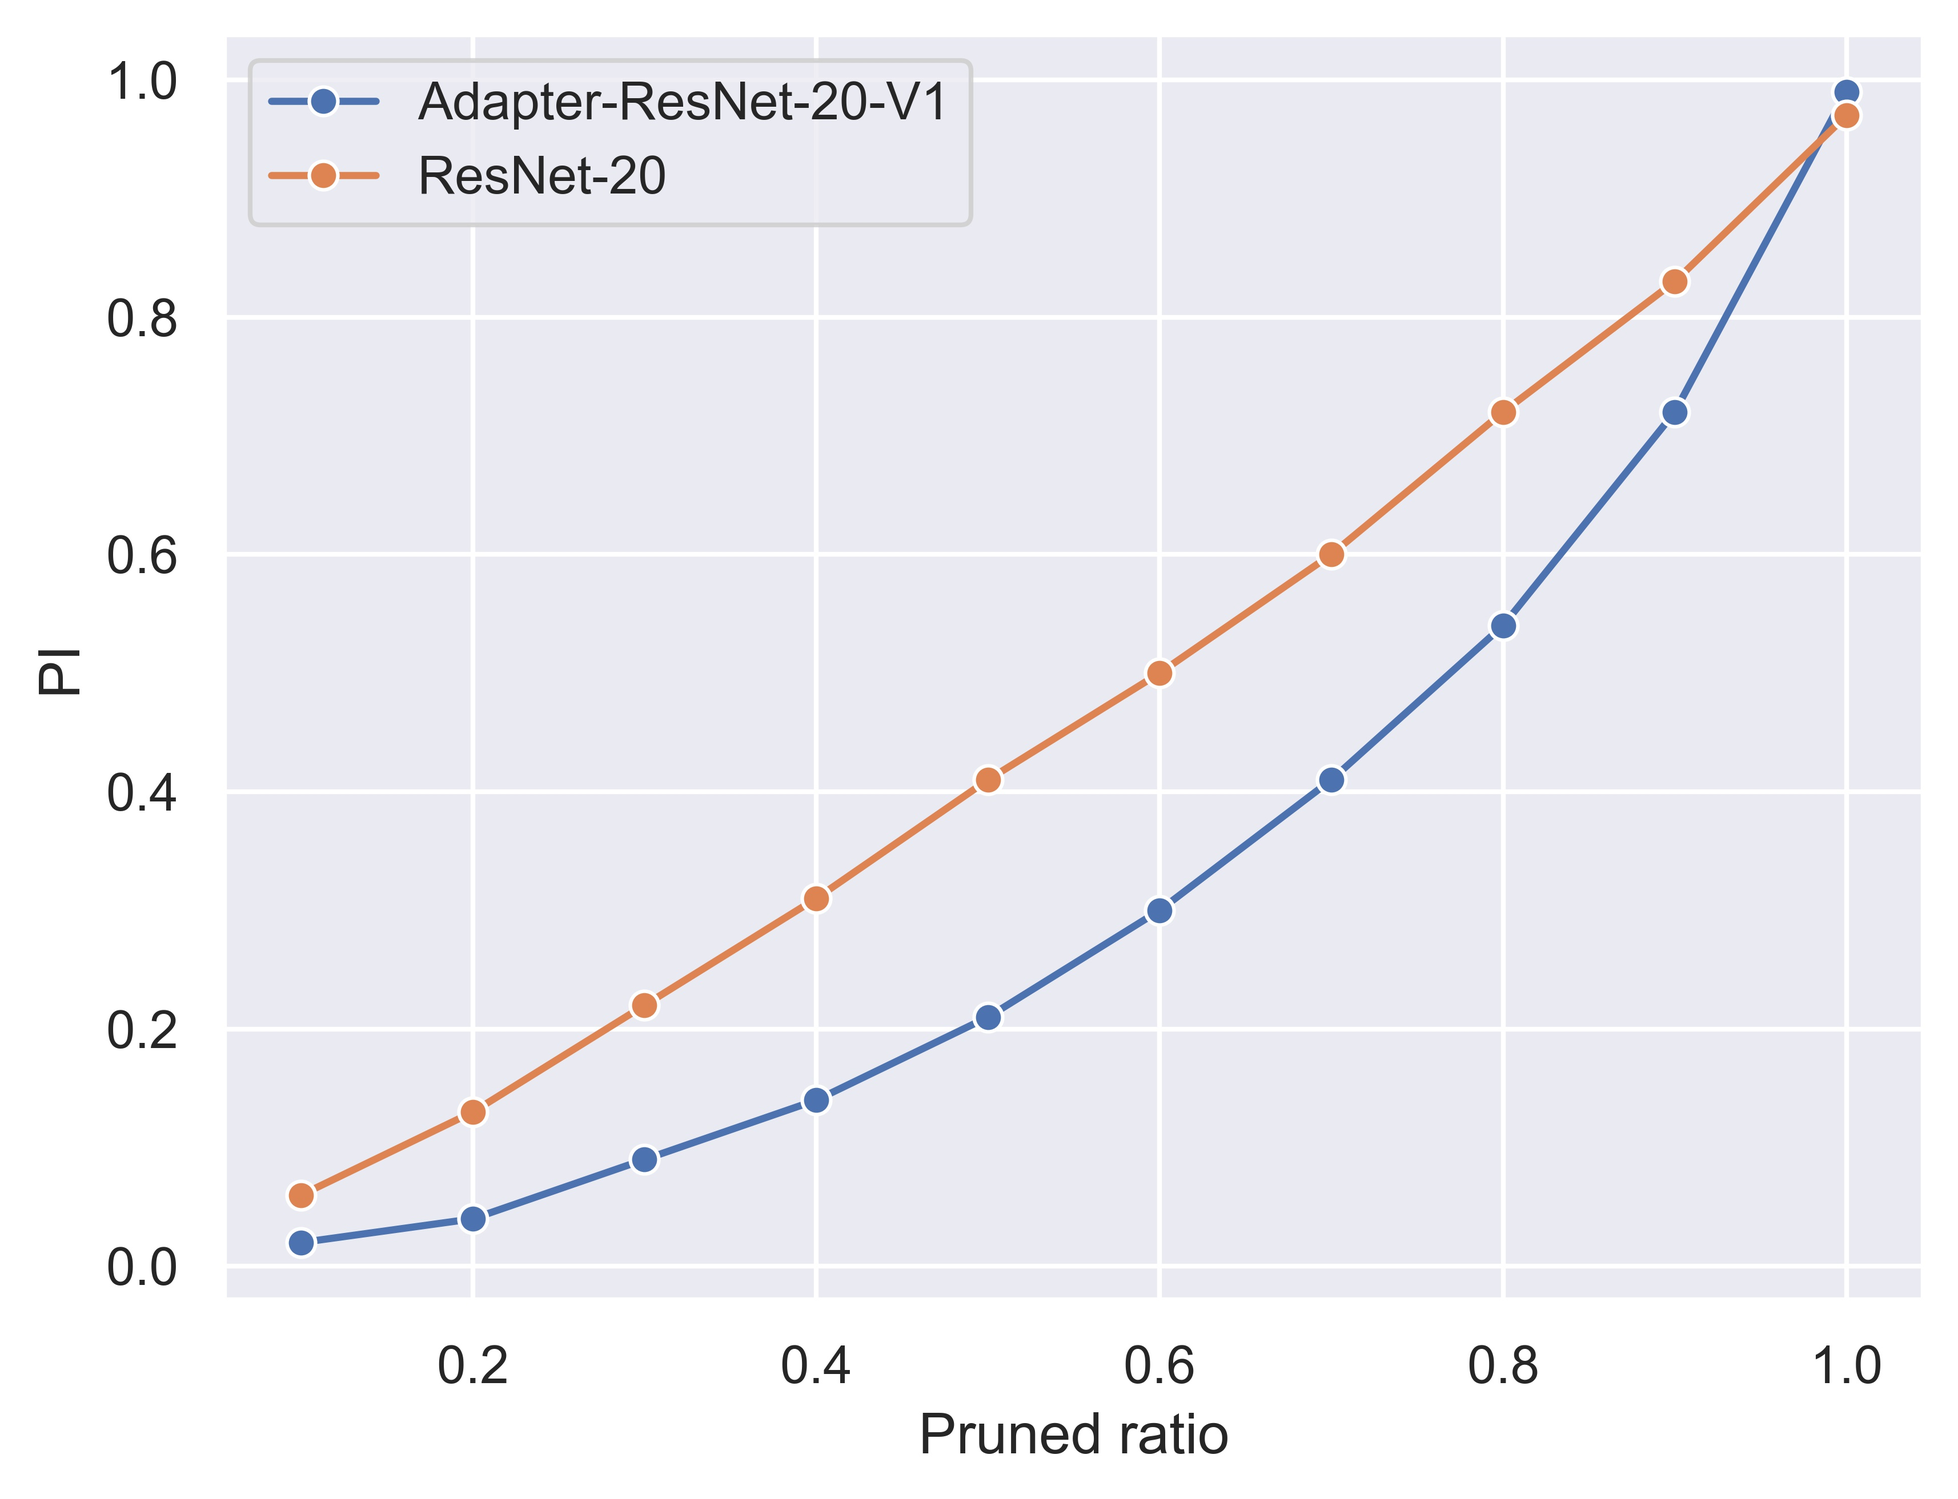
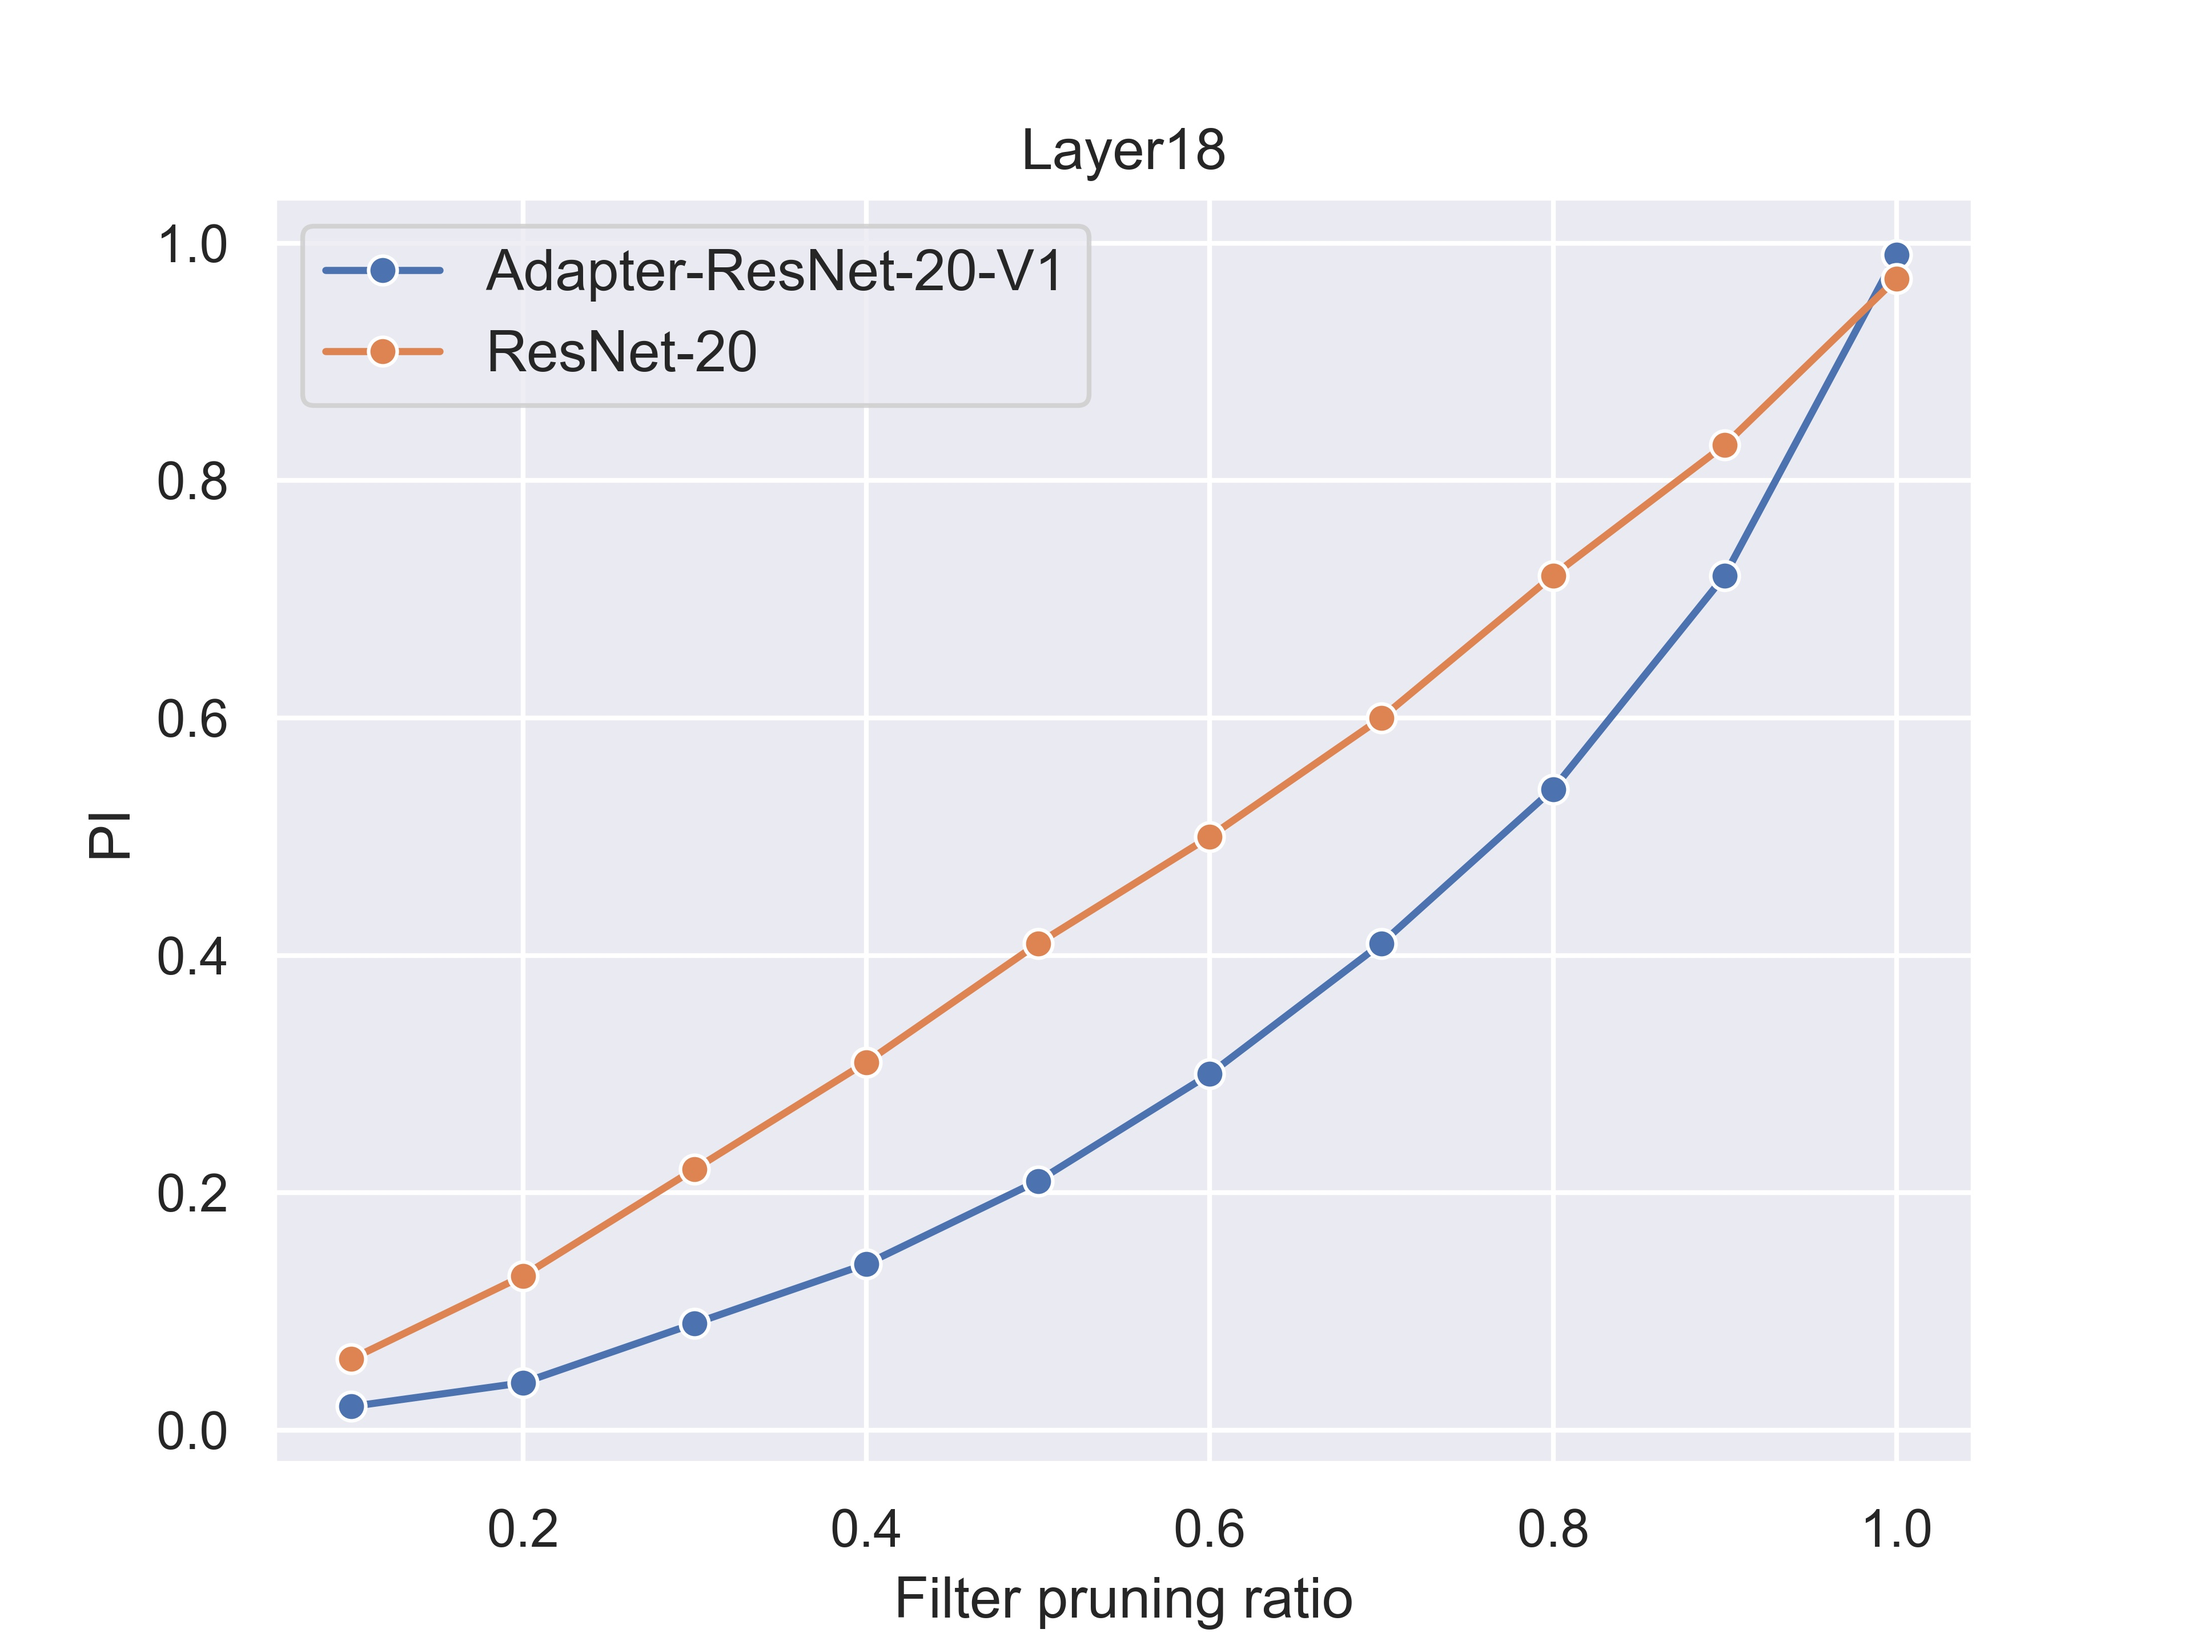
xiugai

diff --git a/influence.py b/influence.py
@@ -11,19 +11,19 @@ if __name__ == '__main__':
         #        '--batch_size 128 --epochs 200 --lr_type cos --learning_rate 0.01 --momentum 0.9 --weight_decay 0.0005 ' \
         #        '--graf --pretrain_dir ./pretrained_models/93.59_resnet_56_cifar10.pth.tar --sparsity [0.]*29+[{}]*1'.format(str(item), str(item))
 
-        rcmd = 'python graf_prune_finetune_cifar_n.py --pretrained_dataset cifar10 --finetune_dataset cifar10 ' \
-               '--finetune_data_dir ./data --pretrained_arch resnet_56 --finetune_arch resnet_56 --result_dir ' \
-               './result/normal_pruned/93.59cifar10tocifar10_resnet_56_pruned_{}_2 --ci_dir ./calculated_ci/93.59_resnet_56_cifar10 ' \
-               '--batch_size 128 --epochs 200 --lr_type cos --learning_rate 0.01 --momentum 0.9 --weight_decay 0.0005 ' \
-               '--graf --pretrain_dir ./pretrained_models/93.59_resnet_56_cifar10.pth.tar --sparsity [0.]*28+[{}]*1+[0.]*1'.format(
-            str(item), str(item))
-
         # rcmd = 'python graf_prune_finetune_cifar_n.py --pretrained_dataset cifar10 --finetune_dataset cifar10 ' \
-        #        '--finetune_data_dir ./data --pretrained_arch resnet_20 --finetune_arch resnet_20 --result_dir ' \
-        #        './result/normal_pruned/92.21cifar10tocifar10_resnet_20_pruned_{} --ci_dir ./calculated_ci/92.21_resnet_20_cifar10 ' \
+        #        '--finetune_data_dir ./data --pretrained_arch resnet_56 --finetune_arch resnet_56 --result_dir ' \
+        #        './result/normal_pruned/93.59cifar10tocifar10_resnet_56_pruned_{}_2 --ci_dir ./calculated_ci/93.59_resnet_56_cifar10 ' \
         #        '--batch_size 128 --epochs 200 --lr_type cos --learning_rate 0.01 --momentum 0.9 --weight_decay 0.0005 ' \
-        #        '--graf --pretrain_dir ./pretrained_models/92.21_resnet_20_cifar10.pth.tar --sparsity [0.]*11+[{}]*1'.format(
+        #        '--graf --pretrain_dir ./pretrained_models/93.59_resnet_56_cifar10.pth.tar --sparsity [0.]*28+[{}]*1+[0.]*1'.format(
         #     str(item), str(item))
+
+        rcmd = 'python graf_prune_finetune_cifar_n.py --pretrained_dataset cifar10 --finetune_dataset cifar10 ' \
+               '--finetune_data_dir ./data --pretrained_arch resnet_20 --finetune_arch resnet_20 --result_dir ' \
+               './result/normal_pruned/92.21cifar10tocifar10_resnet_20_pruned_{} --ci_dir ./calculated_ci/92.21_resnet_20_cifar10 ' \
+               '--batch_size 128 --epochs 100 --lr_type cos --learning_rate 0.01 --momentum 0.9 --weight_decay 0.0005 ' \
+               '--graf --pretrain_dir ./pretrained_models/92.21_resnet_20_cifar10.pth.tar --sparsity [0.]*11+[{}]*1'.format(
+            str(item), str(item))
 
         # rcmd = 'python graf_prune_finetune_cifar_n.py --pretrained_dataset cifar10 --finetune_dataset cifar10 ' \
         #        '--finetune_data_dir ./data --pretrained_arch resnet_20 --finetune_arch resnet_20 --result_dir ' \
@@ -39,19 +39,19 @@ if __name__ == '__main__':
         #        '--graf --pretrain_dir ./pretrained_models/93.73_adapter15resnet_56_cifar10.pth.tar --sparsity [0.]*100 ' \
         #          '--adapter_sparsity [{}]*1'.format(str(item), str(item))
 
-        adrcmd = 'python graf_prune_finetune_cifar_n.py --pretrained_dataset cifar10 --finetune_dataset cifar10 ' \
-               '--finetune_data_dir ./data --pretrained_arch adapter15resnet_56 --finetune_arch adapter15resnet_56 --result_dir ' \
-               './result/normal_pruned/93.73cifar10tocifar10_adapter15resnet_56_pruned_{}_2 --ci_dir ./calculated_ci/93.73_adapter15resnet_56_cifar10 ' \
-               '--batch_size 128 --epochs 200 --lr_type cos --learning_rate 0.01 --momentum 0.9 --weight_decay 0.0005 ' \
-               '--graf --pretrain_dir ./pretrained_models/93.73_adapter15resnet_56_cifar10.pth.tar --sparsity [0.]*28+[{}]*1+[0.]*1 ' \
-                 '--adapter_sparsity [0.]*1'.format(str(item), str(item))
-
         # adrcmd = 'python graf_prune_finetune_cifar_n.py --pretrained_dataset cifar10 --finetune_dataset cifar10 ' \
-        #          '--finetune_data_dir ./data --pretrained_arch adapter15resnet_20 --finetune_arch adapter15resnet_20 --result_dir ' \
-        #          './result/normal_pruned/92.22cifar10tocifar10_adapter15resnet_20_pruned_{} --ci_dir ./calculated_ci/92.22_adapter15resnet_20_cifar10 ' \
-        #          '--batch_size 128 --epochs 200 --lr_type cos --learning_rate 0.01 --momentum 0.9 --weight_decay 0.0005 ' \
-        #          '--graf --pretrain_dir ./pretrained_models/92.22_adapter15resnet_20_cifar10.pth.tar --sparsity [0.]*100 ' \
-        #          '--adapter_sparsity [{}]*1'.format(str(item), str(item))
+        #        '--finetune_data_dir ./data --pretrained_arch adapter15resnet_56 --finetune_arch adapter15resnet_56 --result_dir ' \
+        #        './result/normal_pruned/93.73cifar10tocifar10_adapter15resnet_56_pruned_{}_2 --ci_dir ./calculated_ci/93.73_adapter15resnet_56_cifar10 ' \
+        #        '--batch_size 128 --epochs 200 --lr_type cos --learning_rate 0.01 --momentum 0.9 --weight_decay 0.0005 ' \
+        #        '--graf --pretrain_dir ./pretrained_models/93.73_adapter15resnet_56_cifar10.pth.tar --sparsity [0.]*28+[{}]*1+[0.]*1 ' \
+        #          '--adapter_sparsity [0.]*1'.format(str(item), str(item))
+
+        adrcmd = 'python graf_prune_finetune_cifar_n.py --pretrained_dataset cifar10 --finetune_dataset cifar10 ' \
+                 '--finetune_data_dir ./data --pretrained_arch adapter15resnet_20 --finetune_arch adapter15resnet_20 --result_dir ' \
+                 './result/normal_pruned/92.22cifar10tocifar10_adapter15resnet_20_pruned_{} --ci_dir ./calculated_ci/92.22_adapter15resnet_20_cifar10 ' \
+                 '--batch_size 128 --epochs 100 --lr_type cos --learning_rate 0.01 --momentum 0.9 --weight_decay 0.0005 ' \
+                 '--graf --pretrain_dir ./pretrained_models/92.22_adapter15resnet_20_cifar10.pth.tar --sparsity [0.]*100 ' \
+                 '--adapter_sparsity [{}]*1'.format(str(item), str(item))
 
         # adrcmd = 'python graf_prune_finetune_cifar_n.py --pretrained_dataset cifar10 --finetune_dataset cifar10 ' \
         #          '--finetune_data_dir ./data --pretrained_arch adapter15resnet_20 --finetune_arch adapter15resnet_20 --result_dir ' \

diff --git a/calci_plot.py b/calci_plot.py
@@ -5,18 +5,18 @@ import matplotlib.pyplot as plt
 import pandas as pd
 
 if __name__ == '__main__':
-    # dirpath1 = './calculated_ci/93.73_adapter15resnet_56_cifar10'
+    dirpath1 = './calculated_ci/93.73_adapter15resnet_56_cifar10'
     # dirpath1 = './calculated_ci/93.99_adapter_vgg_16_bn_cifar10'
     # dirpath1 = 'calculated_ci/68.72_adapter19resnet_20_cifar100'
-    dirpath1 = 'calculated_ci/92.22_adapter15resnet_20_cifar10'
+    # dirpath1 = 'calculated_ci/92.22_adapter15resnet_20_cifar10'
     # dirpath1 = './calculated_ci/93.91_adapter_vgg_16_bn_v4_cifar10'
-    dirpath2 = 'calculated_ci/92.21_resnet_20_cifar10'
-    # dirpath2 = './calculated_ci/93.59_resnet_56_cifar10'
+    # dirpath2 = 'calculated_ci/92.21_resnet_20_cifar10'
+    dirpath2 = './calculated_ci/93.59_resnet_56_cifar10'
     # dirpath2 = './calculated_ci/93.96_vgg_16_bn_cifar10'
     # dirpath2 = 'calculated_ci/68.70_resnet_20_cifar100'
 
-    file = 'ci_conv16.npy'
-    # file = 'ci_conv53.npy'
+    # file = 'ci_conv18.npy'
+    file = 'ci_conv52.npy'
     filepath1 = os.path.join(dirpath1, file)
     filepath2 = os.path.join(dirpath2, file)
 
@@ -40,13 +40,17 @@ if __name__ == '__main__':
     sns.set_theme(style='darkgrid')  # 图形主题
     df = pd.DataFrame()
 
-    df['Pruned ratio'] = x; df['PI'] = y1
-    ax = sns.lineplot(data=df, x='Pruned ratio', y='PI', label='Adapter-ResNet-20-V1', marker='o')
+    df['Filter pruning ratio'] = x; df['PI'] = y1
+    # ax = sns.lineplot(data=df, x='Filter pruning ratio', y='PI', label='Adapter-ResNet-20-V1', marker='o')
+    ax = sns.lineplot(data=df, x='Filter pruning ratio', y='PI', label='Adapter-ResNet-56', marker='o')
 
-    df['Pruned ratio'] = x; df['PI'] = y2
-    ax = sns.lineplot(data=df, x='Pruned ratio', y='PI', label='ResNet-20', marker='o')
+    df['Filter pruning ratio'] = x; df['PI'] = y2
+    # ax = sns.lineplot(data=df, x='Filter pruning ratio', y='PI', label='ResNet-20', marker='o')
+    ax = sns.lineplot(data=df, x='Filter pruning ratio', y='PI', label='ResNet-56', marker='o')
 
-    plt.legend(loc="best")
-    plt.savefig('calci_plot4.jpg', bbox_inches='tight', pad_inches=0.1)
+    # ax.set_title('Layer18')
+    ax.set_title('Layer52')
+    plt.legend(loc="best", fontsize=12)
+    plt.savefig('calci_plot1.jpg')
     plt.show()
 

diff --git a/ci_plot.py b/ci_plot.py
@@ -7,16 +7,16 @@ if __name__ == '__main__':
     # dirpath2 = './calculated_ci/72.23_resnet_56_cifar100'
     # dirpath1 = './calculated_ci/72.73_adapter15resnet_56_cifar100'
     # dirpath2 = './calculated_ci/72.60_resnet_56_cifar100'
-    # dirpath1 = './calculated_ci/93.73_adapter15resnet_56_cifar10'
+    dirpath1 = './calculated_ci/93.73_adapter15resnet_56_cifar10'
     # dirpath1 = './calculated_ci/93.99_adapter_vgg_16_bn_cifar10'
     # dirpath1 = './calculated_ci/93.91_adapter_vgg_16_bn_v4_cifar10'
     # dirpath1 = 'calculated_ci/92.22_adapter15resnet_20_cifar10'
-    dirpath1 = 'calculated_ci/68.72_adapter19resnet_20_cifar100'
+    # dirpath1 = 'calculated_ci/68.72_adapter19resnet_20_cifar100'
     # dirpath1 = './calculated_ci/93.33_adapter22resnet_56_cifar10'
-    # dirpath2 = './calculated_ci/93.59_resnet_56_cifar10'
+    dirpath2 = './calculated_ci/93.59_resnet_56_cifar10'
     # dirpath2 = './calculated_ci/93.96_vgg_16_bn_cifar10'
     # dirpath2 = 'calculated_ci/92.21_resnet_20_cifar10'
-    dirpath2 = 'calculated_ci/68.70_resnet_20_cifar100'
+    # dirpath2 = 'calculated_ci/68.70_resnet_20_cifar100'
 
     filelist1 = os.listdir(dirpath1)
     print(filelist1)
@@ -71,7 +71,7 @@ if __name__ == '__main__':
         plt.title('layer{}'.format(i))
         plt.savefig('./image/{}.jpg'.format(i))
         plt.clf()
-        # plt.show()
+        plt.show()
     print('total sum1: {}, total sum2: {}'.format(total_sum1, total_sum2))
 
     # x = [i for i in range(len(ci1))]
